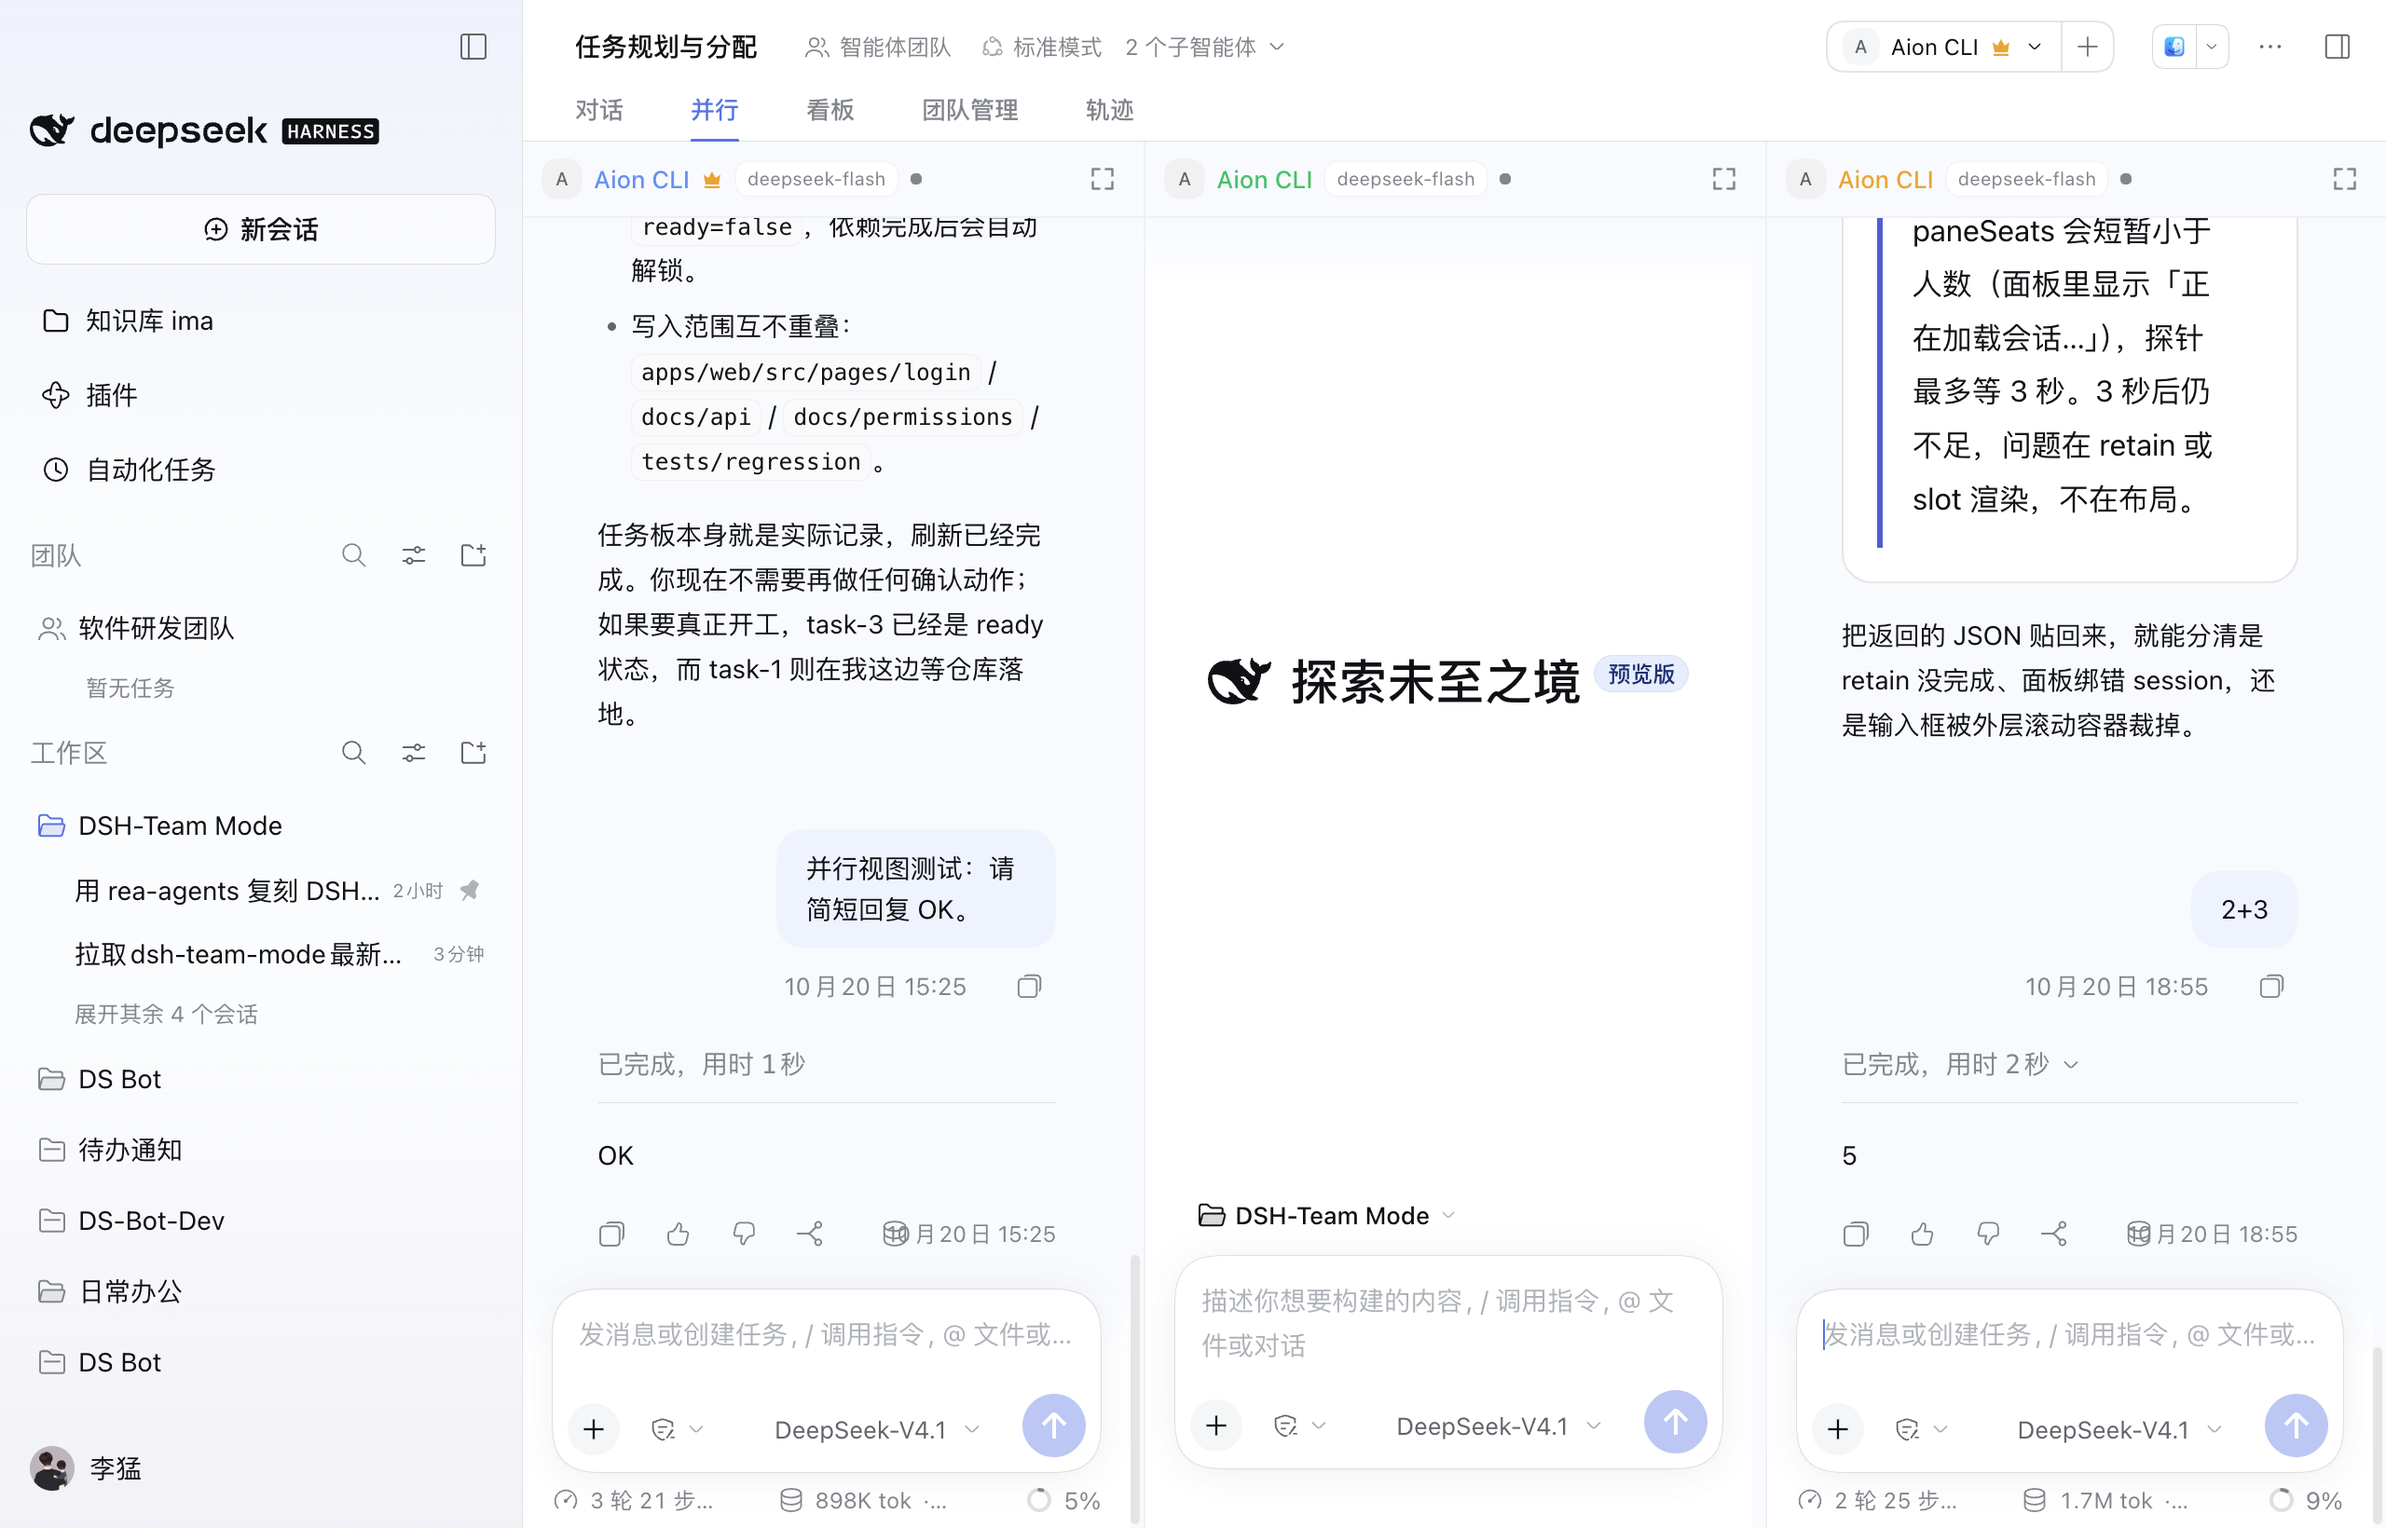
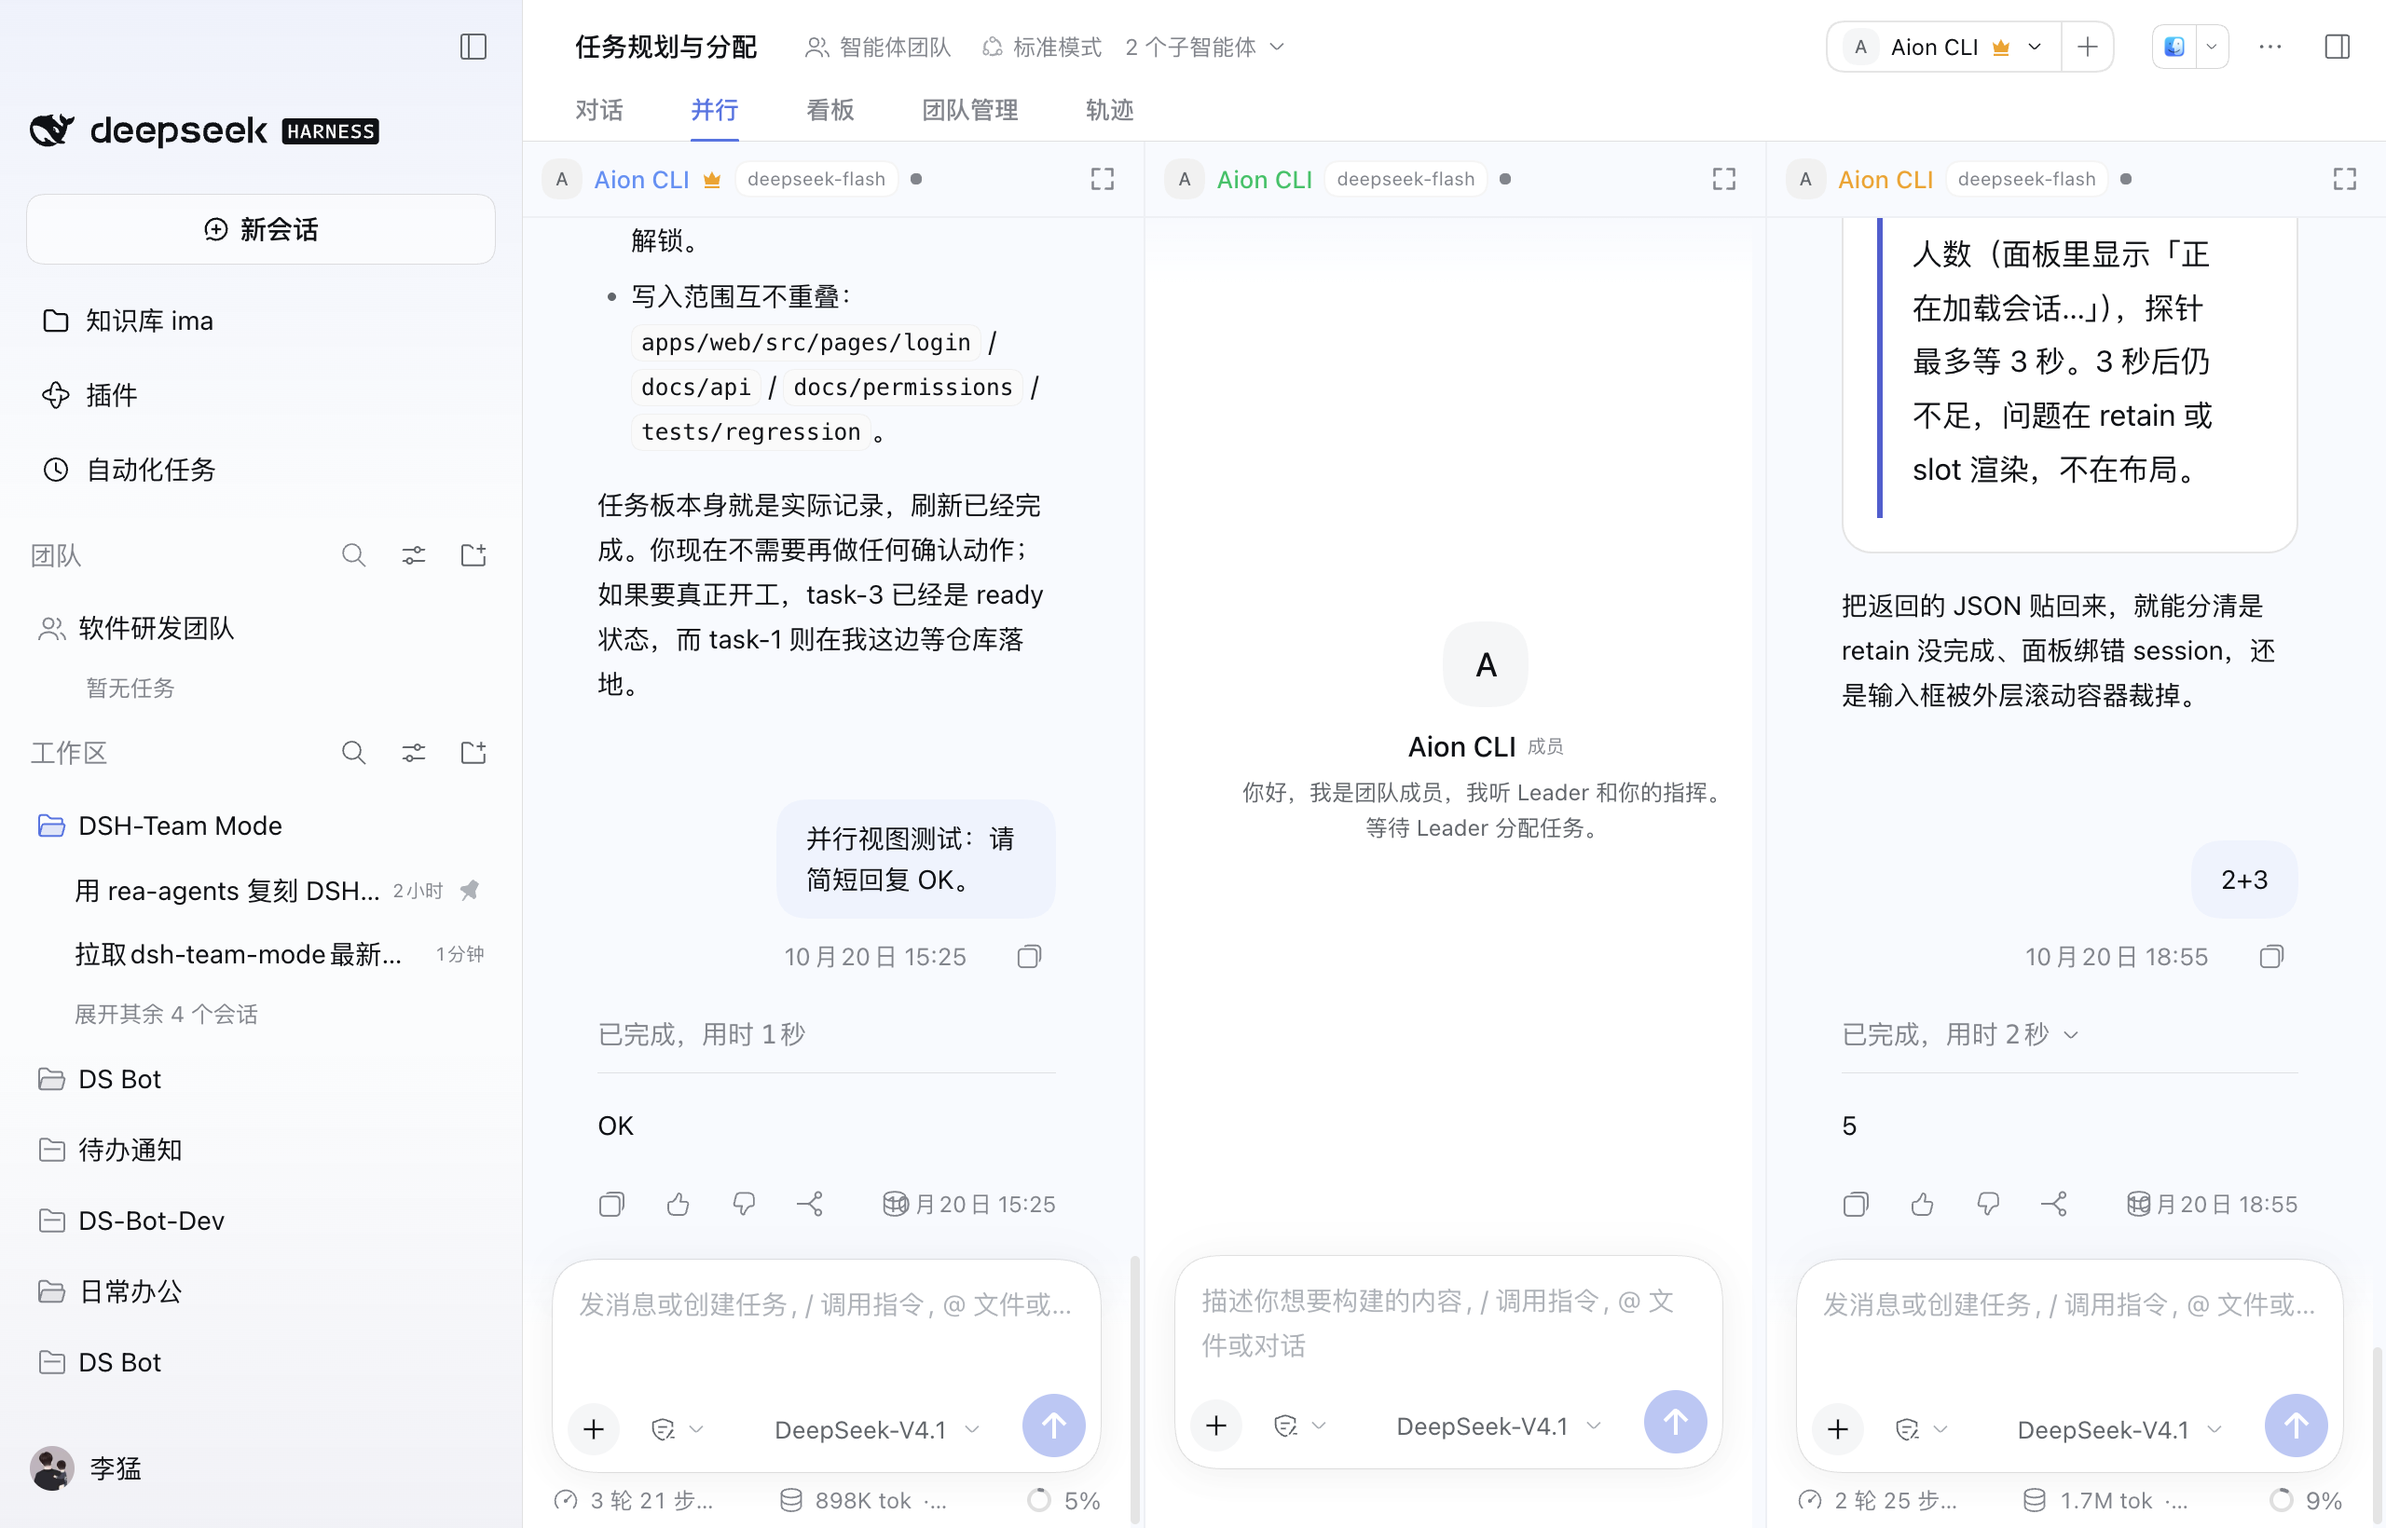
feat(ui): introduce members in the parallel init hero

diff --git a/src/client/AgentTeam.module.css b/src/client/AgentTeam.module.css
@@ -4790,8 +4790,8 @@ html:has([data-team-parallel-anchor]) [class*="heroOptions"] {
 
 /* Parallel-only AionUi empty guide, anchored to the pane (not the hero
    options row) and leaving the official composer at the bottom. */
-html:has([data-team-parallel-anchor]) [class*="teamMemberHeroHint"] {
-  display: none !important;
+html:has([data-team-parallel-anchor]) [data-team-pane] [class*="teamMemberHeroHint"] {
+  display: flex !important;
 }
 
 
@@ -5492,4 +5492,116 @@ html:has([data-team-parallel-anchor]) [class*="teamMemberHeroHint"] {
 
 [data-team-pane] [class*="composerHero"] [data-slot="conversation.compose"] {
   margin-top: auto;
+}
+
+
+/* Parallel init screen: each blank member pane introduces itself like AionUi.
+   The host brand/workspace rows are hidden so the member identity is the hero. */
+html:has([data-team-parallel-anchor]) [data-team-pane] [data-slot^="conversation.hero.brand"],
+html:has([data-team-parallel-anchor]) [data-team-pane] [data-slot="conversation.hero.workspace"],
+html:has([data-team-parallel-anchor]) [data-team-pane] [data-slot="conversation.hero.agentPreset"] {
+  display: none !important;
+}
+
+html:has([data-team-parallel-anchor]) [data-team-pane] [class*="heroOptions"] {
+  flex: 1 1 auto !important;
+  display: flex !important;
+  align-items: center !important;
+  justify-content: center !important;
+  width: 100% !important;
+  min-height: 0;
+}
+
+html:has([data-team-parallel-anchor]) [data-team-pane] [class*="teamMemberHeroHint"] {
+  flex-direction: column;
+  align-items: center;
+  gap: 10px;
+  max-width: min(100%, 320px);
+  margin: 0 auto;
+  padding: 0 16px;
+  border: 0;
+  background: transparent;
+  color: var(--dsw-alias-label-secondary);
+  text-align: center;
+}
+
+html:has([data-team-parallel-anchor]) [data-team-pane] [class*="teamMemberHeroAvatar"] {
+  width: 46px;
+  height: 46px;
+  border-radius: 50%;
+  background: var(--dsw-alias-bg-module-platform);
+  color: var(--dsw-alias-label-primary);
+  font-size: 18px;
+  font-weight: 500;
+}
+
+html:has([data-team-parallel-anchor]) [data-team-pane] [class*="teamMemberHeroCopy"] {
+  align-items: center;
+  gap: 4px;
+  text-align: center;
+}
+
+html:has([data-team-parallel-anchor]) [data-team-pane] [class*="teamMemberHeroName"] {
+  justify-content: center;
+  font-size: 15px;
+  line-height: 22px;
+}
+
+html:has([data-team-parallel-anchor]) [data-team-pane] [class*="teamMemberHeroLine"] {
+  max-width: 270px;
+  font-size: 12px;
+  line-height: 19px;
+}
+
+html:has([data-team-parallel-anchor]) [data-team-pane] [class*="teamMemberHeroSuggestions"] {
+  display: flex !important;
+  flex-direction: column;
+  gap: 6px;
+  width: 100%;
+  margin-top: 4px;
+}
+
+html:has([data-team-parallel-anchor]) [data-team-pane] [class*="teamMemberHeroSuggestion"] {
+  width: 100%;
+  padding: 9px 12px;
+  border-radius: 10px;
+  background: var(--dsw-alias-bg-module-platform);
+  color: var(--dsw-alias-label-secondary);
+  font-size: 12px;
+  line-height: 18px;
+  text-align: left;
+}
+
+/* Equal input heights: the hero placeholder wraps to two lines and is 16px
+   taller than the active composer; reserve the same input scroll height so
+   every composer card shares one top and bottom edge. */
+[data-team-pane] [data-composer-card] [class*="scroll"] {
+  min-height: 52px;
+}
+
+/* The native hero brand block and workspace chip would compete with the member
+   identity, so hide them inside team panes and let the identity fill the hero. */
+html:has([data-team-parallel-anchor]) [data-team-pane] [class*="composerHero"] > [class*="_root"] {
+  display: none !important;
+}
+
+html:has([data-team-parallel-anchor]) [data-team-pane] [class*="heroWorkspaceRow"] {
+  width: 100% !important;
+  flex: 1 1 auto !important;
+  display: flex !important;
+  align-items: center !important;
+  justify-content: center !important;
+}
+
+html:has([data-team-parallel-anchor]) [data-team-pane] [class*="heroWorkspaceRow"] > button {
+  display: none !important;
+}
+
+html:has([data-team-parallel-anchor]) [data-team-pane] [class*="heroOptions"] {
+  width: 100% !important;
+}
+
+html:has([data-team-parallel-anchor]) [data-team-pane] [class*="teamMemberHeroHint"] {
+  width: 100%;
+  max-width: min(100%, 300px);
 }

diff --git a/docs/UI-REVIEW.md b/docs/UI-REVIEW.md
@@ -204,3 +204,16 @@
 - 「对话」页签不受影响；成员提示卡继续在并行视图隐藏（原设计），避免与品牌 hero 重复。
 
 截图：`docs/assets/ui-review/parallel-hero-init.png`。
+
+---
+
+## 十七、并行初始化界面改为成员身份（参考 AionUI）
+
+空白成员 pane 不再显示 DSH 品牌 hero，而是由每位成员“报身份”：
+
+- 隐藏原生 `composerHero` 里的品牌块与工作区行，只保留输入框。
+- 复用 `conversation.hero.options` 的成员提示卡并改成居中竖排：46px 圆形头像、成员名 + Leader/成员角色、成员问候语；有配置提示词时显示建议卡片（Leader 默认三条）。
+- 身份区在 pane 内垂直居中，composer 仍钉在底部。
+- 统一输入区高度：`[data-composer-card] [class*="scroll"] { min-height: 52px }`，三列输入框实测顶部 `676 / 674 / 676`、底部 `790 / 788 / 790`，视觉对齐。
+
+截图更新：`docs/assets/ui-review/parallel-hero-init.png`。
